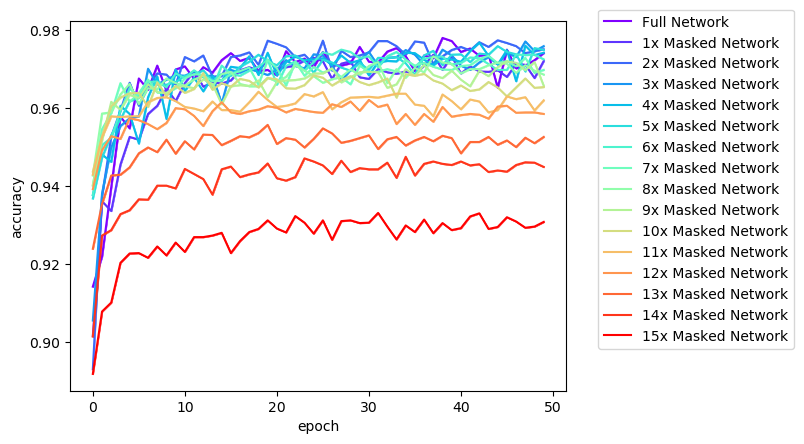
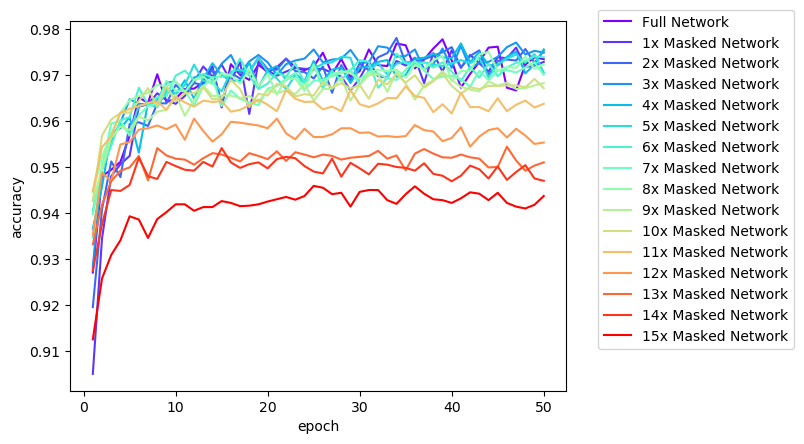
Add: Visualization for the first experiment

diff --git a/PyCharm/visualization.py b/PyCharm/visualization.py
@@ -1,5 +1,6 @@
 # General modules
 import matplotlib.pyplot as plt
+import matplotlib.axes as axes
 import matplotlib.patches as mpatches
 from matplotlib.colors import colorConverter as cc
 import numpy as np
@@ -7,7 +8,7 @@ import scipy.stats as stats
 
 
 def plot_measure_over_n_trainings(histories, history_names, measure_key,
-                                  variable_name='epoch'):
+                                  y_limits=None, variable_name='epoch'):
     epoch_count = range(1, len(histories[0][measure_key]) + 1)
 
     color = iter(plt.cm.rainbow(np.linspace(0, 1, len(histories))))
@@ -16,7 +17,9 @@ def plot_measure_over_n_trainings(histories, history_names, measure_key,
         measure = history[measure_key]
         plt.plot(epoch_count, measure, color=c)
 
-    plt.legend(history_names, bbox_to_anchor=(1.05, 1.05))
+    plt.legend(history_names, bbox_to_anchor=(1.0, 1.0))
+    if y_limits:
+        plt.ylim(y_limits)
     plt.xlabel(variable_name)
     plt.ylabel(measure_key)
     plt.savefig("../LaTeX/gfx/Experiments/test.png",
@@ -26,7 +29,7 @@ def plot_measure_over_n_trainings(histories, history_names, measure_key,
 
 
 def plot_measure_with_confidence_over_n_trainings(measure_with_confidence, history_names, measure_key,
-                                                  variable_name='epoch'):
+                                                  y_limits=None, variable_name='epoch'):
     # epoch_count = range(1, len(measure_with_confidence[0]['means']))
     color = iter(plt.cm.rainbow(np.linspace(0, 1, len(measure_with_confidence))))
     for idx, measure_with_confidence in enumerate(measure_with_confidence):
@@ -39,6 +42,8 @@ def plot_measure_with_confidence_over_n_trainings(measure_with_confidence, histo
             color_shading=c)
 
     plt.legend(history_names, bbox_to_anchor=(1.05, 1.05))
+    if y_limits:
+        plt.ylim(y_limits)
     plt.xlabel(variable_name)
     plt.ylabel(measure_key)
     plt.savefig("../LaTeX/gfx/Experiments/test.png",
@@ -158,7 +163,7 @@ def _calculate_point_wise_average_over_experiments(experiment_results, measure_k
 
 
 def plot_average_measure_after_convergence(experiment_result, history_names, measure_key,
-                                           head_length_to_truncate,
+                                           head_length_to_truncate, y_limits=None,
                                            variable_name='pruning iteration'):
     means = []
     lower_bounds = []
@@ -167,8 +172,10 @@ def plot_average_measure_after_convergence(experiment_result, history_names, mea
         truncated_history = historiy_dict[measure_key][head_length_to_truncate:]
         stat_dict = _calculate_mean_and_confidence_intervals(truncated_history)
         means.append(stat_dict['mean'])
-        lower_bounds.append(stat_dict['lower_bound'])
-        upper_bounds.append(stat_dict['upper_bound'])
+        # lower_bounds.append(stat_dict['lower_bound'])
+        # upper_bounds.append(stat_dict['upper_bound'])
+        lower_bounds.append(np.min(truncated_history))
+        upper_bounds.append(np.max(truncated_history))
 
     _plot_mean_and_confidence_intervals(
         mean=means,
@@ -196,7 +203,7 @@ def plot_average_measure_after_convergence(experiment_result, history_names, mea
                bbox_to_anchor=(1.2, 1.0))
     '''
 
-
+    plt.ylim(y_limits)
     plt.xlabel(variable_name)
     plt.ylabel(measure_key)
     plt.savefig("../LaTeX/gfx/Experiments/test.png",

diff --git a/PyCharm/main.py b/PyCharm/main.py
@@ -28,15 +28,15 @@ def main():
 
     histories_path = '../PyCharm/Histories'
 
-    train = True
+    train = False
     # visualize = False
     visualize = not train
 
     no_experiments = 1
 
     # task_description = 'Transfer'
-    # task_description = 'Reproduction'
-    task_description = 'Early-Tickets'
+    task_description = 'Reproduction'
+    # task_description = 'Early-Tickets'
 
     # architecture_description = 'CIFAR10-CNN-6'
     architecture_description = 'MNIST-Lenet-FCN'
@@ -127,13 +127,16 @@ def main():
 
     if visualize:
         # Values to be set manually
-        # no_masking_iteration_provided = 2
-        no_masking_iteration_provided = no_pruning_iterations
-        measure_key = 'precision'
+        no_masking_iteration_provided = 18
+        # no_masking_iteration_provided = no_pruning_iterations
+        measure_key = 'accuracy'
         # The convergence of the full network happens until:
+        # epoch 10 (Reproduction-MNIST-Lenet-FCN)
         # epoch 5 (Reproduction-CIFAR10-CNN-6)
         # epoch 3 (Transfer-20Newsgroups-End2EndCNN)
-        no_epochs_to_estimated_convergence = 3
+        no_epochs_to_estimated_convergence = 10
+        # Limits of the axis for the experiment:
+        y_limits = (0.94, 0.99)
 
         # no_experiments_provided = 3
         average_over_multiple_experiments = False
@@ -259,19 +262,43 @@ def main():
                     )
                     network_names.append(str(i+1) + 'x Masked Network')
 
+                vis_dicts = []
+                vis_names = []
+                vis_dicts.append(network_history_dicts[0])
+                vis_names.append(network_names[0])
+                vis_dicts.append(network_history_dicts[6])
+                vis_names.append(network_names[6])
+                vis_dicts.append(network_history_dicts[12])
+                vis_names.append(network_names[12])
+                vis_dicts.append(network_history_dicts[15])
+                vis_names.append(network_names[15])
+                vis_dicts.append(network_history_dicts[18])
+                vis_names.append(network_names[18])
+                #"""
+                visualization.plot_measure_over_n_trainings(
+                    histories=vis_dicts,
+                    history_names=vis_names,
+                    measure_key=measure_key,
+                    y_limits=y_limits
+                )
+                #"""
                 """
                 visualization.plot_measure_over_n_trainings(
                     histories=network_history_dicts,
                     history_names=network_names,
-                    measure_key=measure_key
+                    measure_key=measure_key,
+                    y_limits=y_limits
                 )
+                """
                 """
                 visualization.plot_average_measure_after_convergence(
                     experiment_result=network_history_dicts,
                     history_names=network_names,
                     measure_key=measure_key,
-                    head_length_to_truncate=no_epochs_to_estimated_convergence
+                    head_length_to_truncate=no_epochs_to_estimated_convergence,
+                    y_limits=y_limits
                 )
+                """
 
     return
 
